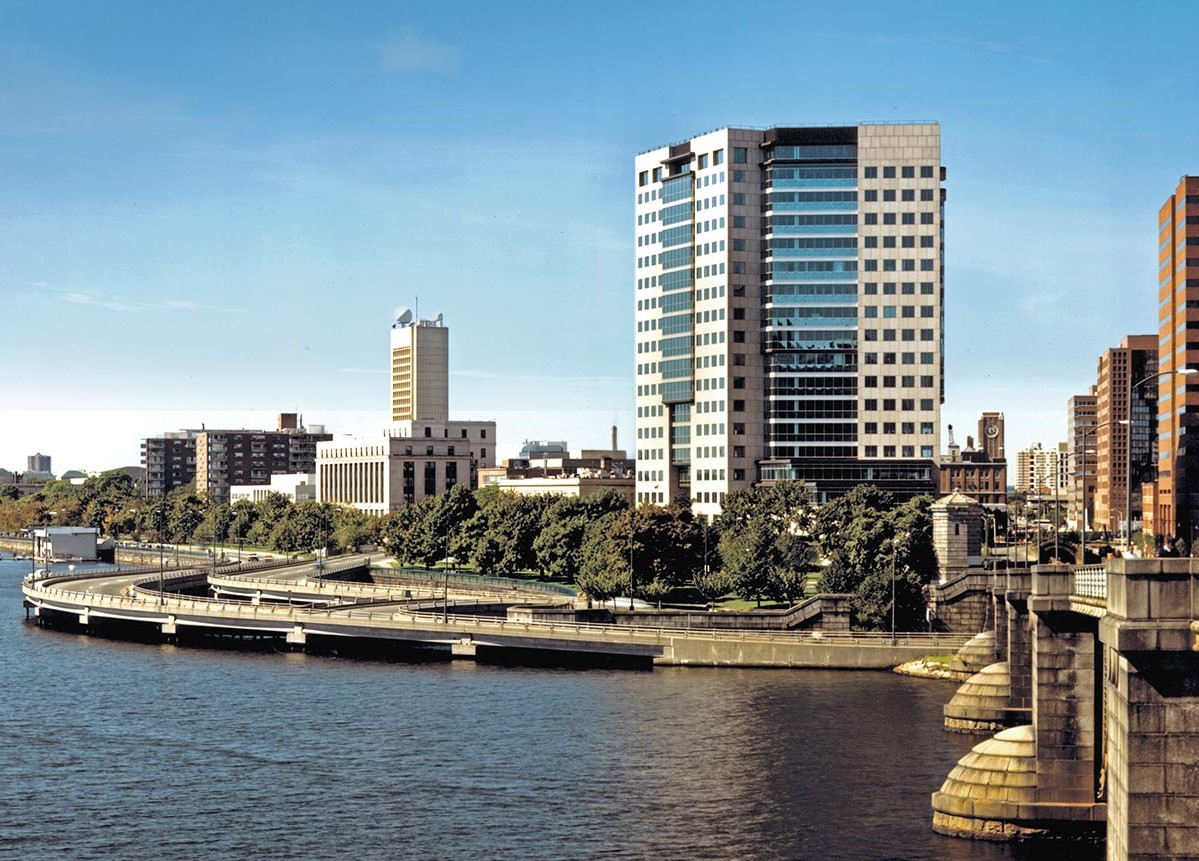
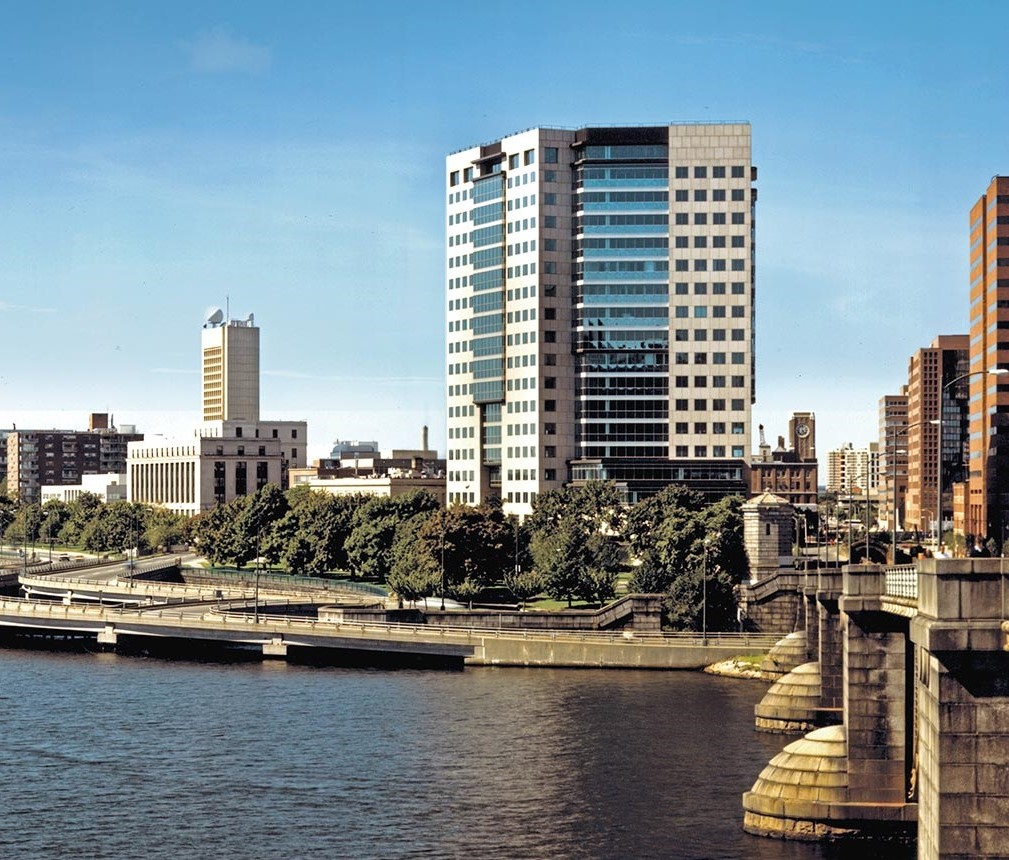
Updated some photos in slides

diff --git a/index.html b/index.html
@@ -95,10 +95,10 @@
 
 			<div class="carousel-item container-fluid" style="background-color:#5f9c6e;">
 				<a class="text-muted" href="">
-					<h2 class="slide-title"> During COVID Lockdown</h2>
+					<h2 class="slide-title"> Philly - During COVID Lockdown</h2>
 					<h4 class="desc"> PennOS: a UNIX style operating system, <br> 
 						designed & implemented an OS with a kernel, a shell, a file system, process management, and virtual memory. </h4>
-					<img class="city-img" src="images/covid.jpg" alt="covid-lockdown">
+					<img class="city-img" src="images/philly.jpg" alt="Philly">
 				</a><br>	 
 				<em class="company-note">@ Evo Philly, my lovely shelter during COVID lockdown</em>
 			</div>
@@ -118,7 +118,7 @@
 					<h2 class="slide-title"> UPenn - Philadelphia, PA - Spring 2019 </h2>			
 					<h4 class="desc"> Full stack web application design program, <br>
 						web application connected to several large scale, cloud hosting databases(MySql and MongoDB). </h4>
-					<img class="city-img" src="images/levine.jpg" alt="Philly">
+					<img class="city-img" src="images/penn-eng.jpg" alt="penn-eng">
 				</a><br>	 
 				<em class="company-note">@ Univ. of Penn, Department of Computer & Information Science</em>
 			</div>
